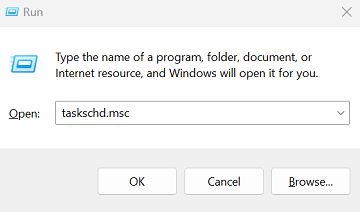
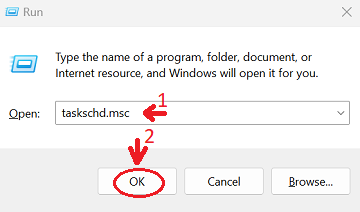
Windows Setup: more Task Scheduler steps

Changed region(s): [[0.3361, 0.4245, 0.4583, 0.934], [0.3056, 0.8208, 0.3361, 0.9057]]

diff --git a/src/setup-windows.md b/src/setup-windows.md
@@ -62,7 +62,21 @@ Here are a few links to external articles on different ways to open the Windows 
 In order to open the Windows Task Schedular, we will use a `Run` command:
 
 1. Hold the `Windows` button + press the `R` button
-2. This should open and pop the `Run` window
-3. Type in: `taskschd.msc` and either click the `OK` button or press `ENTER` key
+2. This should open the `Run` window
+3. Type in: `taskschd.msc` and either click the `OK` button or press the `ENTER` key
 
 ![Run](images/taskschd.png)  
+
+![Windows Task Scheduler](images/task_scheduler.png) 
+
+### Create a new Task
+
+It is recommended to create the task within a dedicated folder so it will be easier to maintain and not mix-up with other unrelated tasks.
+
+
+**Steps:**
+1. On the left pane, select the `Task Scheduler Library` directory by clicking on it once with the `LEFT MOUSE` button
+2. Once selected, right click once with the `RIGHT MOUSE` button on the already selected `Task Scheduler Library`, to open the actions menu
+3. Select `New Folder...` from the actions menu
+4. Pick a proper name (`OSA-Mailer` is recommended) and either click on the `OK` button or press the `ENTER` key
+5. 
